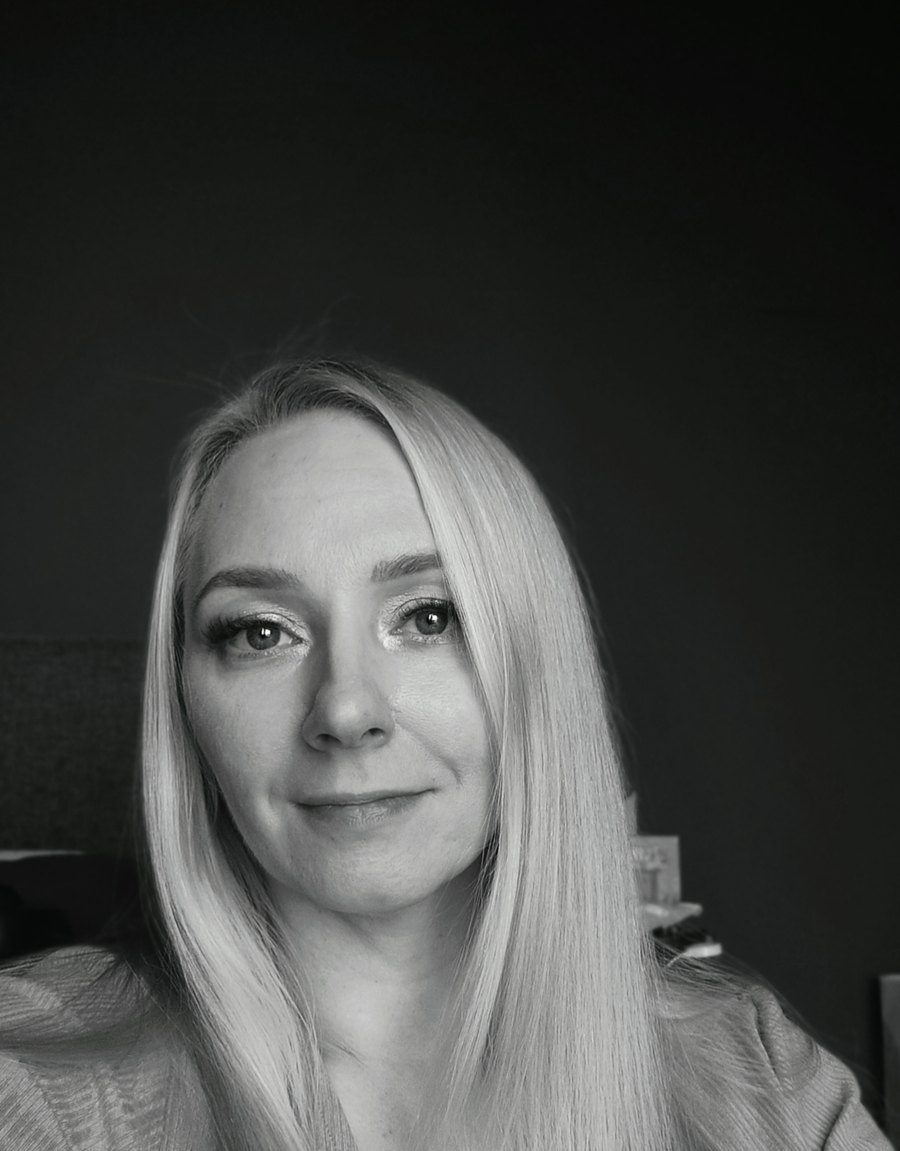
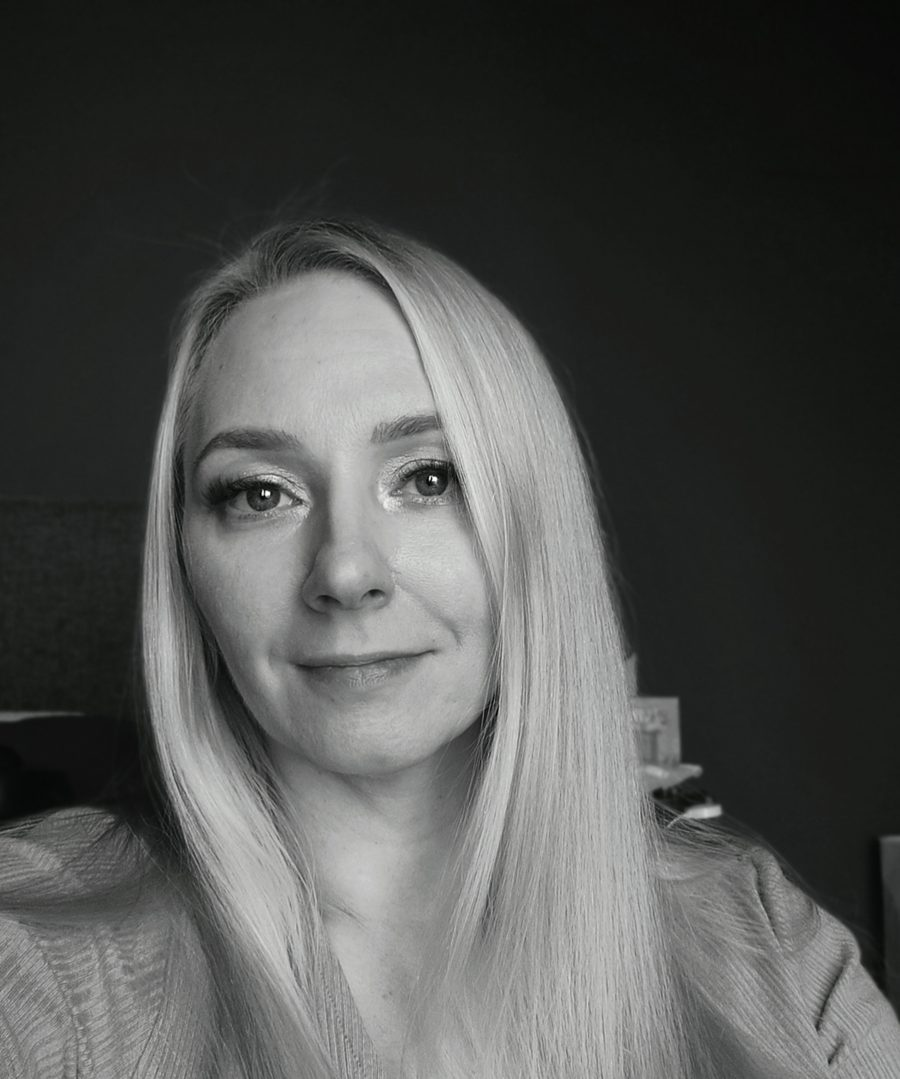
Popraw hero: szersze kadrowanie portretu, usuń plakietkę „60 min"
- Nowy kadr zdjęcia Zofii — więcej postaci w kadrze, mniej pustego tła
- Usunięta nakładka „60 min…" z portretu (zasłaniała zdjęcie)

Claude-Session: https://claude.ai/code/session_018p4K6JcNZWksCH6kakgz5A

Changed region(s): [[0.0, 0.1835, 1.0, 1.0], [0.0, 0.6423, 0.0622, 0.6728]]

diff --git a/landing-trycholog/components/Sections.tsx b/landing-trycholog/components/Sections.tsx
@@ -70,10 +70,6 @@ export function Hero() {
           <div className="arch">
             {/* eslint-disable-next-line @next/next/no-img-element */}
             <img src="/img/zofia.jpg" alt={`${site.person} — ${site.role}`} />
-            <div className="hero-badge">
-              <b>60 min</b>
-              <small>tyle trwa rzetelna konsultacja — bez pośpiechu i zgadywania „na oko”</small>
-            </div>
           </div>
         </div>
       </div>
